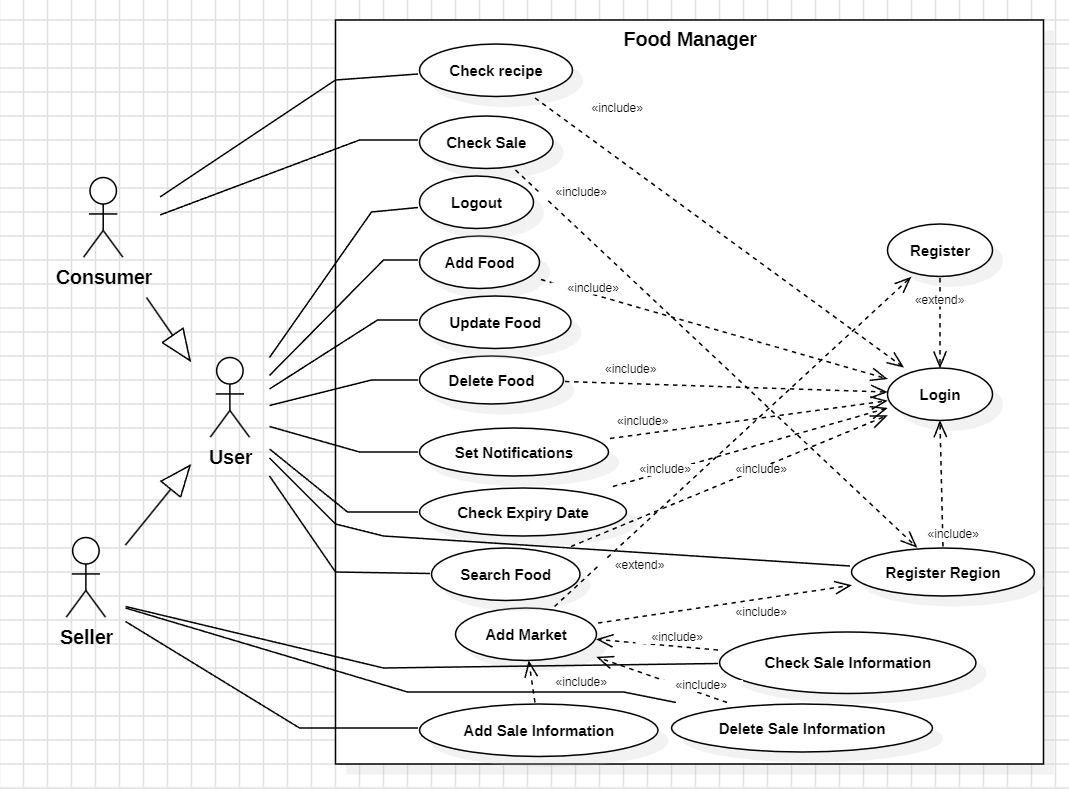
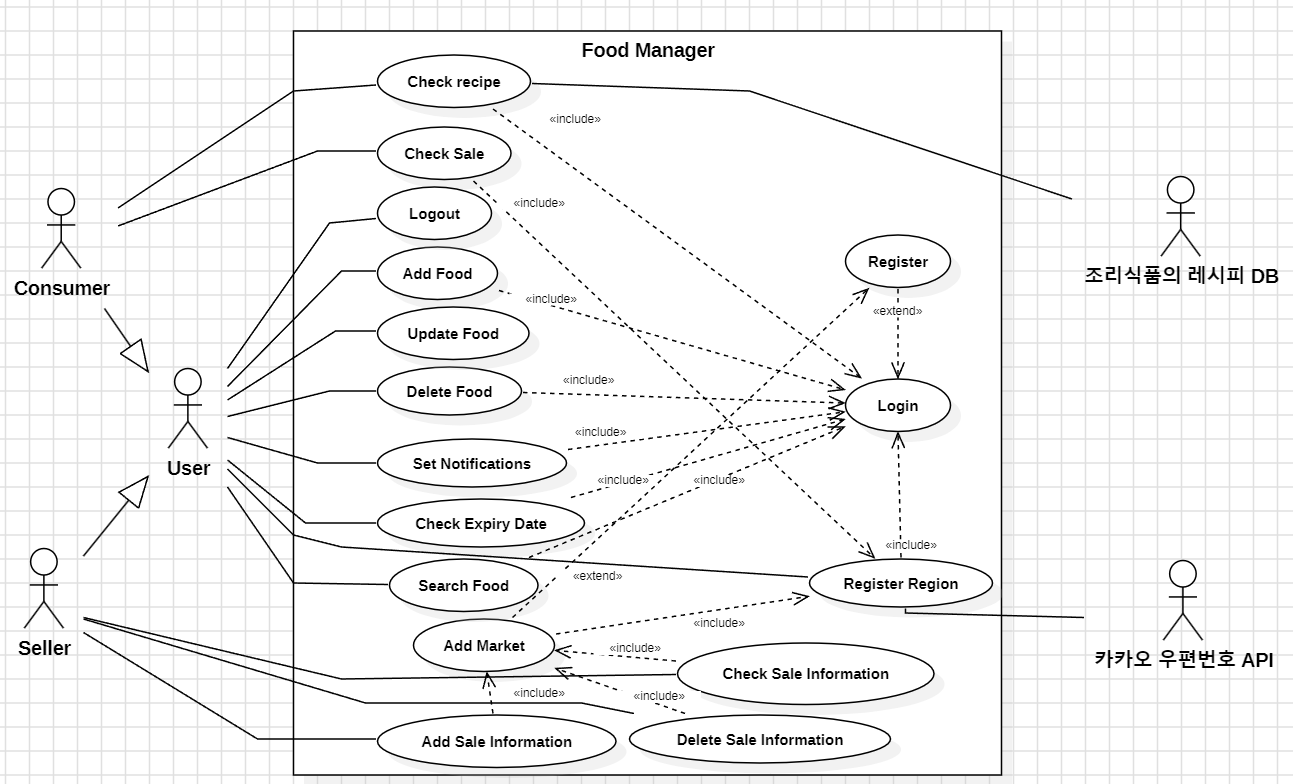
insert content Analysis and change usecase

diff --git a/Analysis_22211994_남재민.md b/Analysis_22211994_남재민.md
@@ -18,7 +18,8 @@
 
 | Revision date | Version # | Description | Author |
 | :---: | :---: | :---: | :---: |
-| 2026-05-05 | 1.0.0 | Initial Concept |Nam Jae-min |
+| 2026-05-05 | 1.0.0 | Initial Concept |Nam Jae-Min |
+| 2026-06-01 | 1.0.1 | Change Content | Nam Jae-Min |
 </h2>
 
 <br><br><br><br><br><br>
@@ -205,9 +206,10 @@
 | Scope | Food Mangager |
 | Level | User Level |
 | Author | Nam Jae Min |
-| Last Update | 2026-05-05 |
+| Last Update | 2026-06-01 |
 | Status | Analysis |
 | Primary Actor | User |
+| Secondary Actor | 카카오 우편번호 API |
 | Preconditions | 사용자가 로그인이 되어있는 상태여야 한다. |
 | Trigger | 설정 화면에서 [지역변경]을 선택하거나, 판매자가 사업장등록(usecase #13)을 진행하며 주소를 입력할 때 |
 | Success Post Condition | 시스템의 데이터베이스에 사용자의 지역정보가 저장된다. |
@@ -215,13 +217,13 @@
 | **MAIN SUCCESS SCENARIO** | |
 | **Step** | **Action** |
 | S | 사용자가 지역설정을 시작한다(설정 메뉴 혹은 사업자 등록 절차중). |
-| 1 | 시스템은 사용자가 현재 자신의 지역을 입력할 수 있는 화면을 출력한다.  |
-| 2 | 사용자가 도로명 주소를 검색하여 선택하고, 상세 주소(동, 호수 등)를 입력한 뒤 저장 버튼을 선택한다. |
+| 1 | 시스템은 외부API(카카오 우편번호 API)를 불러와 사용자의 주소 입력할 수 있게한다.  |
+| 2 | 사용자가 도로명 주소를 검색하여 선택하고, 상세 주소(동, 호수, 층수 등)를 입력한 뒤 저장 버튼을 선택한다. |
 | 3 | 시스템은 데이터베이스에 입력한 정보를 저장한다. |
 | 4 | 정상적으로 저장되면 이 Usecase는 끝난다.|
 | **EXTENSION SCENARIO** | |
 | **Step** | **Branching Action** |
-| 1 | 1a. 네트워크 오류나 통신장애로 인해 화면 출력이 되지않는 경우. |
+| 1 | 1a. 네트워크 오류나 통신장애로 인해 API와 통신이 안되는 경우. |
 ||1a1.  "통신이 원활하지 않습니다. 나중에 다시 시도하세요." 메시지를 출력한다.|
 ||1a2. 설정화면으로 돌아간다. |
 | 2 | 2a. 비정상적인 입력하는 경우. |
@@ -574,9 +576,10 @@
 | Scope | Food Mangager |
 | Level | User Level |
 | Author | Nam Jae Min |
-| Last Update | 2026-05-06 |
+| Last Update | 2026-06-01 |
 | Status | Analysis |
 | Primary Actor | Consumer |
+| Secondary Actor | 조리식품의 레시피 DB |
 | Preconditions | 소비자가 로그인이 되어있어야함. |
 | Trigger | 메인 화면에서 레시피 메뉴를 선택할 때 |
 | Success Post Condition | 소비자는 등록된 식료품으로 만들 수 있는 레시피를 확인한다. |
@@ -585,8 +588,8 @@
 | **Step** | **Action** |
 | S | 소비자가 메인 화면에서 레시피 메뉴를 선택할때 발생한다.|
 | 1 | 시스템은 현재 접속한 소비자가 등록한 식료품 리스트를 데이터베이스에서 가져온다.|
-| 2 | 시스템은 현재 식료품 리스트로 데이터베이스에 있는 레시피에서 재료 및 수량이 모두 해당하는지 계산한다.|
-| 3 | 시스템은 현재 식료품으로 바로 만들 수 있는 레시피(초록색으로 표시)와 몇몇개의 재료만 부족한 레시피(주황색으로 표시)도 출력한다. 그리고 부족한 재료의 리스트를 출력한다.|
+| 2 | 시스템은 현재 식료품 리스트로 외부 데이터베이스(조리식품의 DB)에 있는 레시피에서 재료 및 수량이 모두 해당하는지 계산한다.|
+| 3 | 레시피의 상세정보(추가 구매필요한 식료품,난이도,소요시간,등)를 출력한다.|
 | 4 | 소비자가 해당 레시피를 누르면 레시피의 자세한 내용을 출력한다.|
 | 5 | 정상적으로 출력되면 이 usecase는 끝난다.|
 | **EXTENSION SCENARIO** | |
@@ -594,7 +597,7 @@
 | 1 |1a. 네트워크 오류나 통신장애로 인해 데이터베이스와의 통신이 원활하지 않는 경우. |
 ||1a1. "통신이 원활하지 않습니다. 나중에 다시 시도하세요." 메시지를 출력한다.|
 ||1a2. 메인 화면으로 돌아간다.|
-| 2 |2a. 네트워크 오류나 통신장애로 인해 계산이 원활하지 않는 경우. |
+| 2 |2a. 네트워크 오류나 통신장애로 인해 계산 및 데이터베이스와의 통신이 원활하지 않는 경우. |
 ||2a1. "통신이 원활하지 않습니다. 나중에 다시 시도하세요." 메시지를 출력한다.|
 ||2a2. 메인 화면으로 돌아간다.|
 | 3 | 3a. 네트워크 오류나 통신장애로 인해 화면 출력이 되지않는 경우. |
